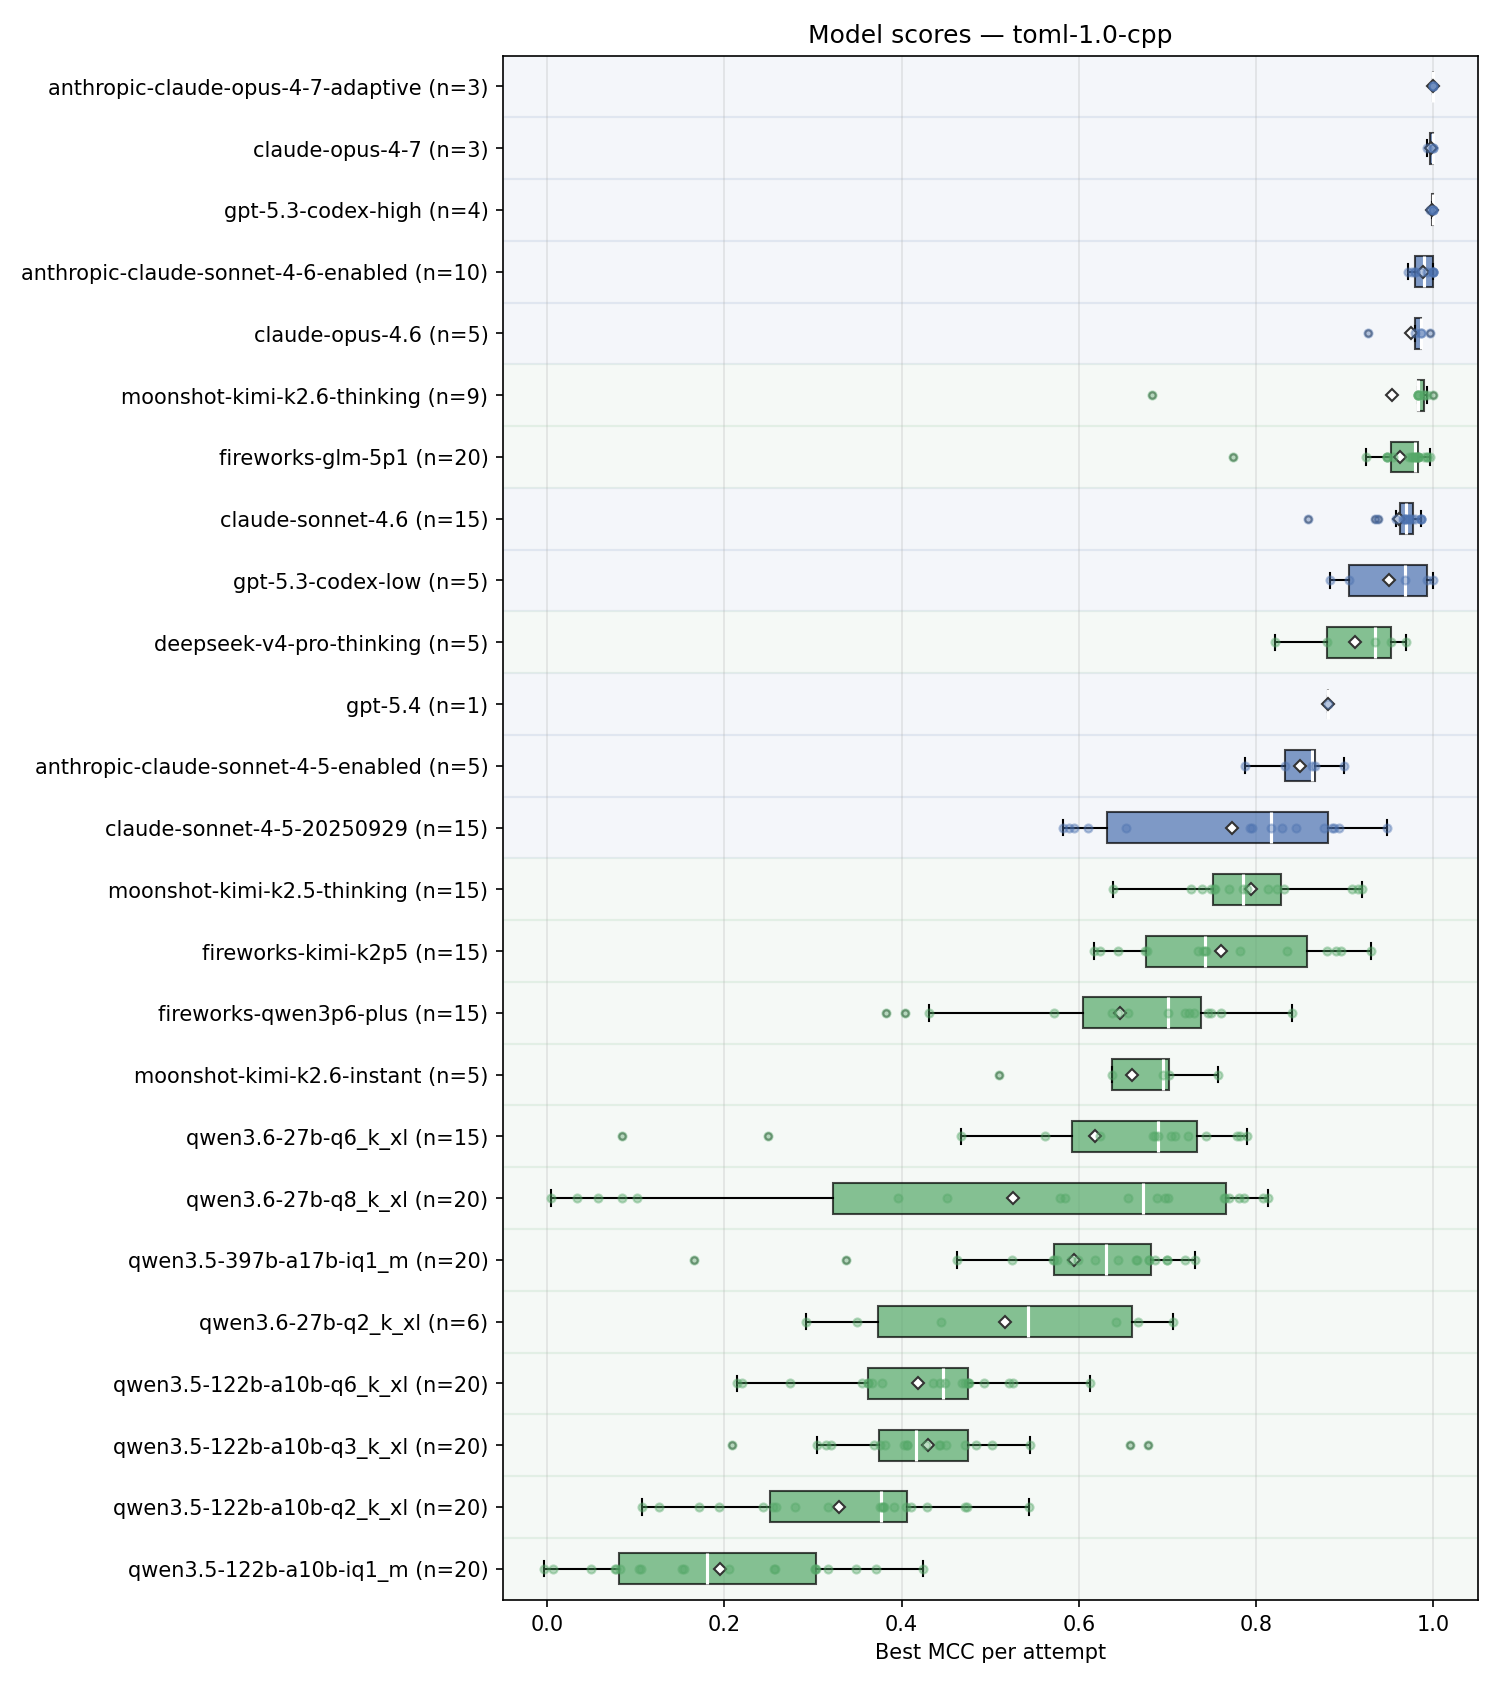
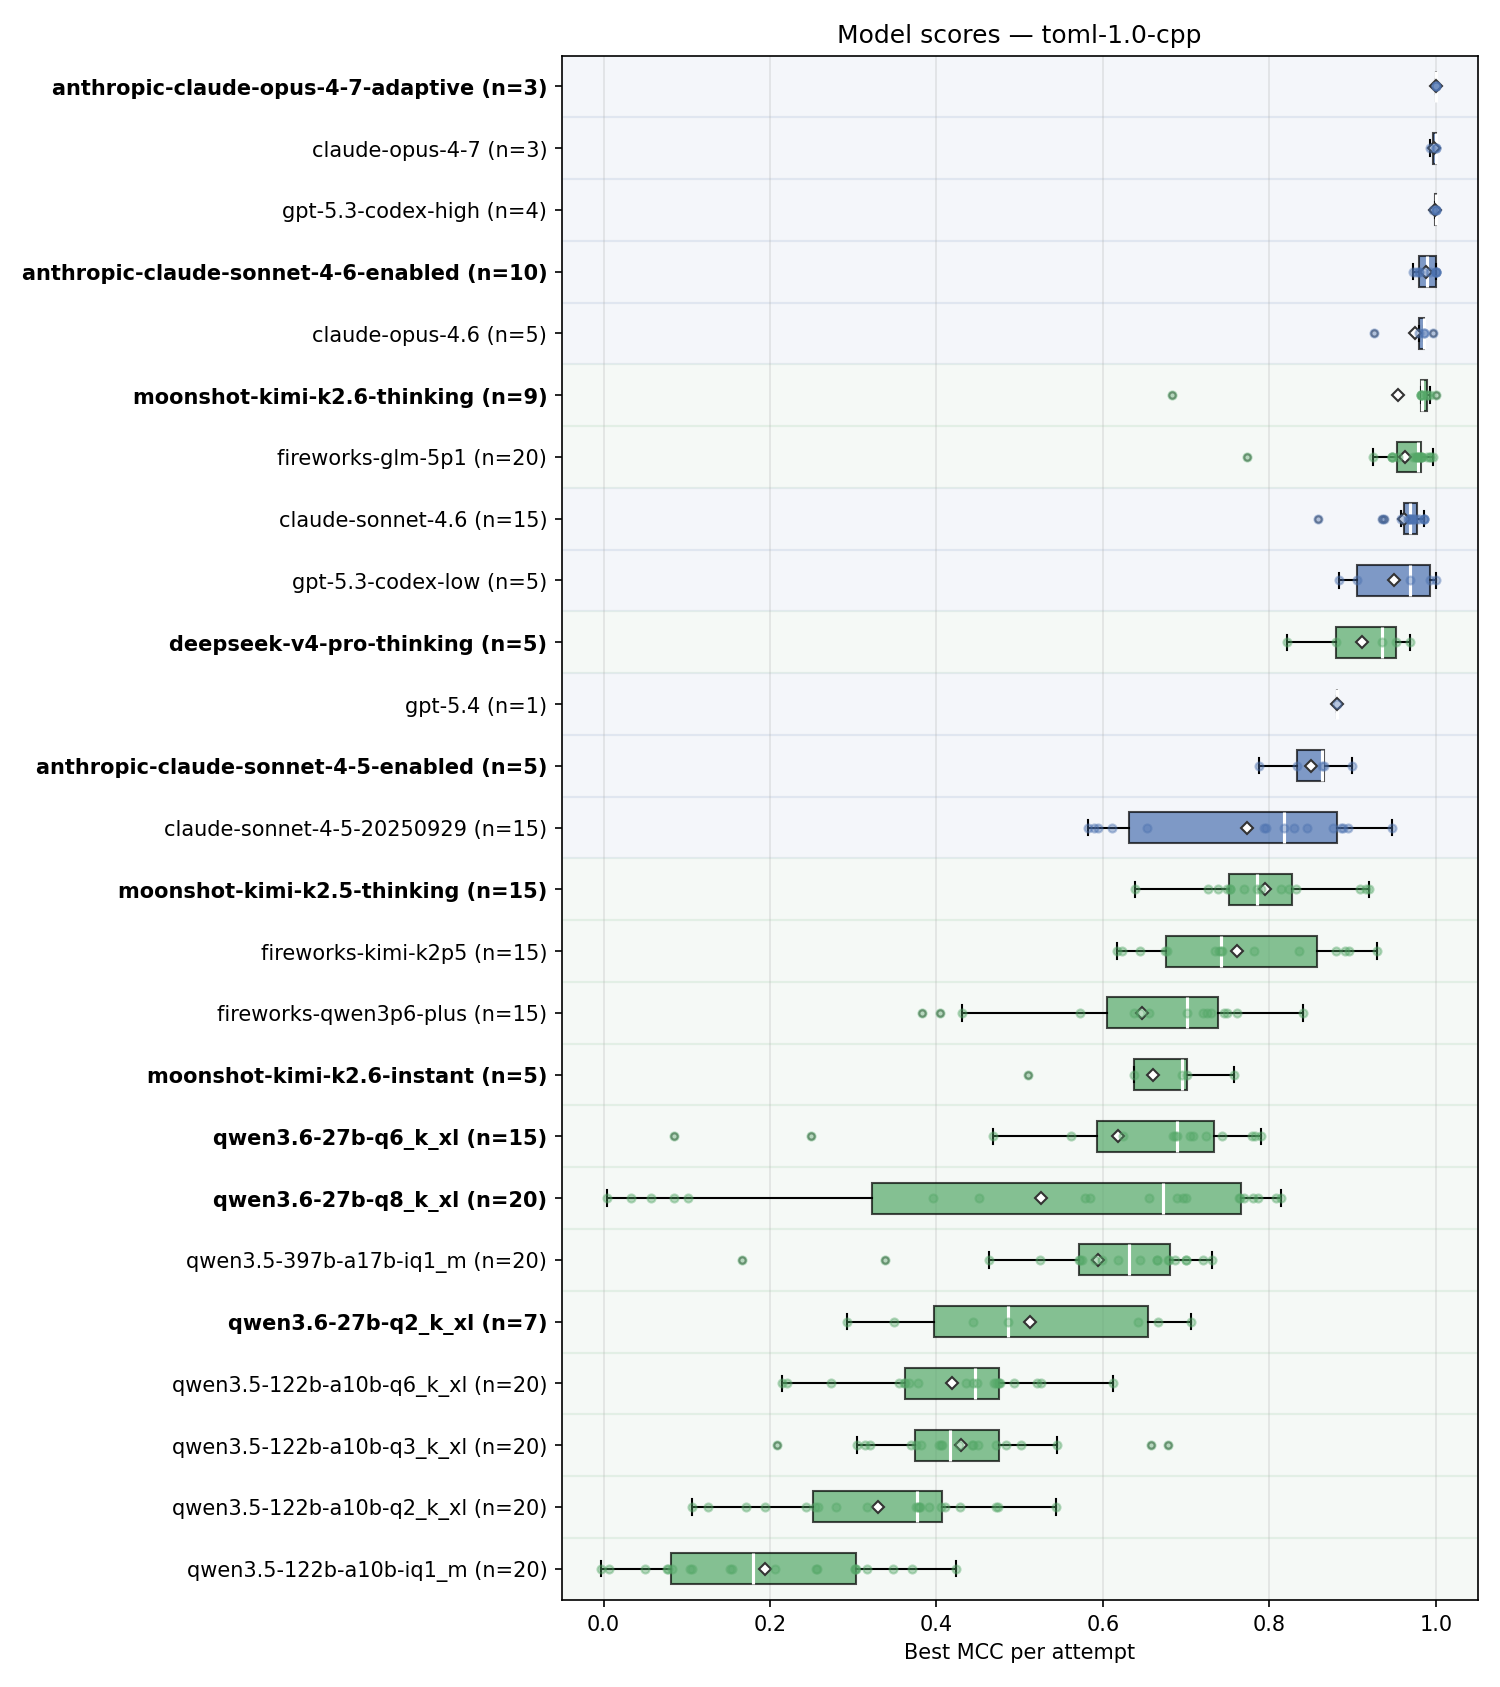
validation-bench: add --highlight to plot_scores for bold-rendering "new models"
Add a `--highlight PATTERN [PATTERN ...]` flag to all three plot_scores
subcommands (boxplot, compare, timing). Matching slugs render with bold
yticklabels so an eye-catching "these are the ones I'm currently evaluating"
cue is visible without recoloring the first-party/OSS scheme.

## Why

As the benchmark grows, some model runs are actively being investigated
while others are stable historical baselines. Boxplots start to get dense
and the "which rows should I actually look at" signal gets lost. Highlighting
by bold ytick labels is a lightweight cue — doesn't consume a color axis,
works regardless of existing first-party/OSS coloring, and can be flipped
per-plot without touching the data.

## Semantics

- **No default.** Running `plot_scores.py boxplot --task X` produces no
  highlighting. Highlighting is opt-in — no surprises for scripts that
  consume the output.
- **Matching is `re.search`,** so substring works transparently (`--highlight
  qwen` matches `qwen3.6-27b-q6_k_xl`) and anchored regex works
  (`^anthropic`).
- **Multiple patterns are OR'd.** Any match bolds the row.
- **Applies to all three plot types** (boxplot, compare, timing) for
  consistency — the `_bold_matching_yticklabels` helper walks the axes'
  ytick labels post-layout and flips `fontweight='bold'` on hits.

## Current "new models" invocation (suggested in the --help)

```bash
python plot_scores.py boxplot --task toml-1.0-cpp \
  --highlight '^anthropic' '^moonshot' '^deepseek' '^qwen3\.6-27b'
[…]

diff --git a/validation-bench/plot_scores.py b/validation-bench/plot_scores.py
@@ -3,10 +3,29 @@
 
 import argparse
 import json
+import re
 from collections import defaultdict
 from pathlib import Path
 
 import matplotlib.pyplot as plt
+
+
+def _compile_highlights(patterns: list[str] | None) -> list[re.Pattern]:
+    """Compile regex patterns for bold-yticklabel highlighting. Pass `None`
+    (flag absent) or `[]` to disable. No built-in default — callers who want
+    to highlight the current "new models" set must pass patterns explicitly."""
+    return [re.compile(p) for p in (patterns or ())]
+
+
+def _is_highlighted(slug: str, patterns: list[re.Pattern]) -> bool:
+    return any(p.search(slug) for p in patterns)
+
+
+def _bold_matching_yticklabels(ax, slugs: list[str], highlights: list[re.Pattern]):
+    """Post-layout: walk the ytick labels and bold any whose slug matches."""
+    for lbl, slug in zip(ax.get_yticklabels(), slugs):
+        if _is_highlighted(slug, highlights):
+            lbl.set_fontweight("bold")
 
 
 def load_attempt_scores(results_file: Path, task: str, exclude: list[str] | None = None
@@ -49,7 +68,8 @@ def _is_first_party(slug: str) -> bool:
     return any(slug.startswith(p) for p in FIRST_PARTY_PREFIXES)
 
 
-def plot_boxplots(scores: dict[str, list[float]], task: str, output: Path):
+def plot_boxplots(scores: dict[str, list[float]], task: str, output: Path,
+                  highlights: list[re.Pattern] | None = None):
     slugs = sorted(scores.keys(), key=lambda s: sorted(scores[s])[len(scores[s]) // 2])
     data = [scores[s] for s in slugs]
     labels = [f"{s} (n={len(scores[s])})" for s in slugs]
@@ -81,6 +101,9 @@ def plot_boxplots(scores: dict[str, list[float]], task: str, output: Path):
         y = [i + 1] * len(d)
         ax.scatter(d, y, color=c, alpha=0.4, s=15, zorder=3)
 
+    if highlights:
+        _bold_matching_yticklabels(ax, slugs, highlights)
+
     fig.tight_layout()
     fig.savefig(output, dpi=150)
     plt.close(fig)
@@ -88,7 +111,8 @@ def plot_boxplots(scores: dict[str, list[float]], task: str, output: Path):
 
 
 def plot_dumbbell(scores_a: dict[str, list[float]], scores_b: dict[str, list[float]],
-                  task_a: str, task_b: str, output: Path):
+                  task_a: str, task_b: str, output: Path,
+                  highlights: list[re.Pattern] | None = None):
     """Dumbbell chart comparing mean MCC between two tasks for shared slugs."""
     shared = sorted(set(scores_a) & set(scores_b))
     if not shared:
@@ -134,6 +158,9 @@ def plot_dumbbell(scores_a: dict[str, list[float]], scores_b: dict[str, list[flo
     ]
     ax.legend(handles=legend_elements, loc="lower left", fontsize=8)
 
+    if highlights:
+        _bold_matching_yticklabels(ax, shared, highlights)
+
     fig.tight_layout()
     fig.savefig(output, dpi=150)
     plt.close(fig)
@@ -167,7 +194,8 @@ def load_attempt_times(results_file: Path, slug_prefix: str,
 
 
 def plot_timing(times_by_task: dict[str, dict[str, list[float]]],
-                slug_prefix: str, output_dir: Path):
+                slug_prefix: str, output_dir: Path,
+                highlights: list[re.Pattern] | None = None):
     """One image per task, showing attempt elapsed time per slug as horizontal boxplots."""
     for task, slugs_data in sorted(times_by_task.items()):
         slugs = sorted(slugs_data.keys(),
@@ -198,6 +226,9 @@ def plot_timing(times_by_task: dict[str, dict[str, list[float]]],
         ax.set_xlim(left=0)
         ax.grid(axis="x", alpha=0.3)
 
+        if highlights:
+            _bold_matching_yticklabels(ax, slugs, highlights)
+
         fig.tight_layout()
         out = output_dir / f"timing-{slug_prefix}-{task}.png"
         fig.savefig(out, dpi=150)
@@ -209,11 +240,19 @@ def main():
     parser = argparse.ArgumentParser(description="Plot MCC boxplots per model slug")
     subparsers = parser.add_subparsers(dest="command")
 
+    highlight_help = (
+        "Regex patterns matched with re.search against each slug; matches render "
+        "with bold yticklabels. Multiple patterns OR'd. No highlighting by default. "
+        "Current 'new models' set worth highlighting: "
+        "^anthropic ^moonshot ^deepseek '^qwen3\\.6-27b' (shell-quote the last one)."
+    )
+
     box = subparsers.add_parser("boxplot", help="Horizontal boxplots for a single task")
     box.add_argument("--task", default="toml-1.0-cpp", help="Task to plot (default: toml-1.0-cpp)")
     box.add_argument("--results", default=None, help="Path to results.jsonl")
     box.add_argument("--output", default=None, help="Output image path (default: plots/<task>.png)")
     box.add_argument("--exclude", nargs="*", default=[], help="Slugs to exclude")
+    box.add_argument("--highlight", nargs="*", default=None, help=highlight_help)
 
     cmp = subparsers.add_parser("compare", help="Dumbbell chart comparing two tasks")
     cmp.add_argument("--task-a", default="toml-1.0-cpp", help="First task (default: toml-1.0-cpp)")
@@ -221,12 +260,14 @@ def main():
     cmp.add_argument("--results", default=None, help="Path to results.jsonl")
     cmp.add_argument("--output", default=None, help="Output image path")
     cmp.add_argument("--exclude", nargs="*", default=[], help="Slugs to exclude")
+    cmp.add_argument("--highlight", nargs="*", default=None, help=highlight_help)
 
     tim = subparsers.add_parser("timing", help="Attempt timing boxplots by slug prefix")
     tim.add_argument("--prefix", default="fireworks", help="Slug prefix to filter (default: fireworks)")
     tim.add_argument("--results", default=None, help="Path to results.jsonl")
     tim.add_argument("--output", default=None, help="Output image path")
     tim.add_argument("--exclude", nargs="*", default=[], help="Slugs to exclude")
+    tim.add_argument("--highlight", nargs="*", default=None, help=highlight_help)
 
     args = parser.parse_args()
     if not args.command:
@@ -235,6 +276,8 @@ def main():
 
     results_file = Path(args.results) if args.results else Path(__file__).parent / "results" / "results.jsonl"
 
+    highlights = _compile_highlights(args.highlight)
+
     if args.command == "boxplot":
         output = Path(args.output) if args.output else Path(__file__).parent / "plots" / f"{args.task}.png"
         output.parent.mkdir(parents=True, exist_ok=True)
@@ -242,7 +285,7 @@ def main():
         if not scores:
             print(f"No data for task '{args.task}'")
             return
-        plot_boxplots(scores, args.task, output)
+        plot_boxplots(scores, args.task, output, highlights)
 
     elif args.command == "compare":
         output = Path(args.output) if args.output else Path(__file__).parent / "plots" / f"{args.task_a}_vs_{args.task_b}.png"
@@ -252,7 +295,7 @@ def main():
         if not scores_a or not scores_b:
             print(f"No data for one of the tasks")
             return
-        plot_dumbbell(scores_a, scores_b, args.task_a, args.task_b, output)
+        plot_dumbbell(scores_a, scores_b, args.task_a, args.task_b, output, highlights)
 
     elif args.command == "timing":
         output_dir = Path(args.output) if args.output else Path(__file__).parent / "plots"
@@ -261,7 +304,7 @@ def main():
         if not times:
             print(f"No timing data for prefix '{args.prefix}'")
             return
-        plot_timing(times, args.prefix, output_dir)
+        plot_timing(times, args.prefix, output_dir, highlights)
 
 
 if __name__ == "__main__":
